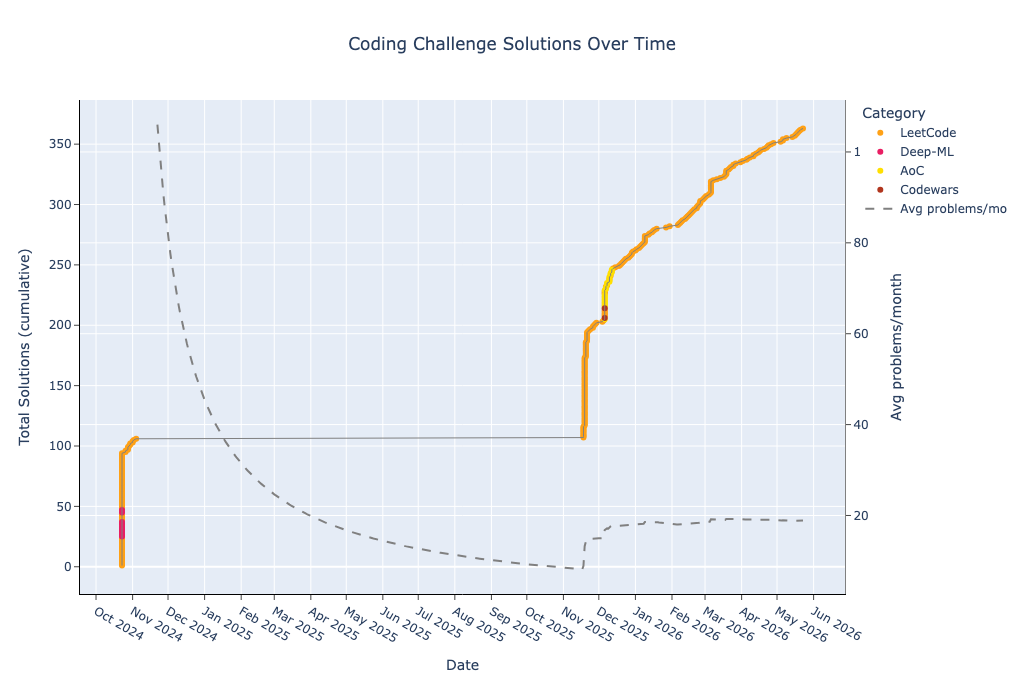
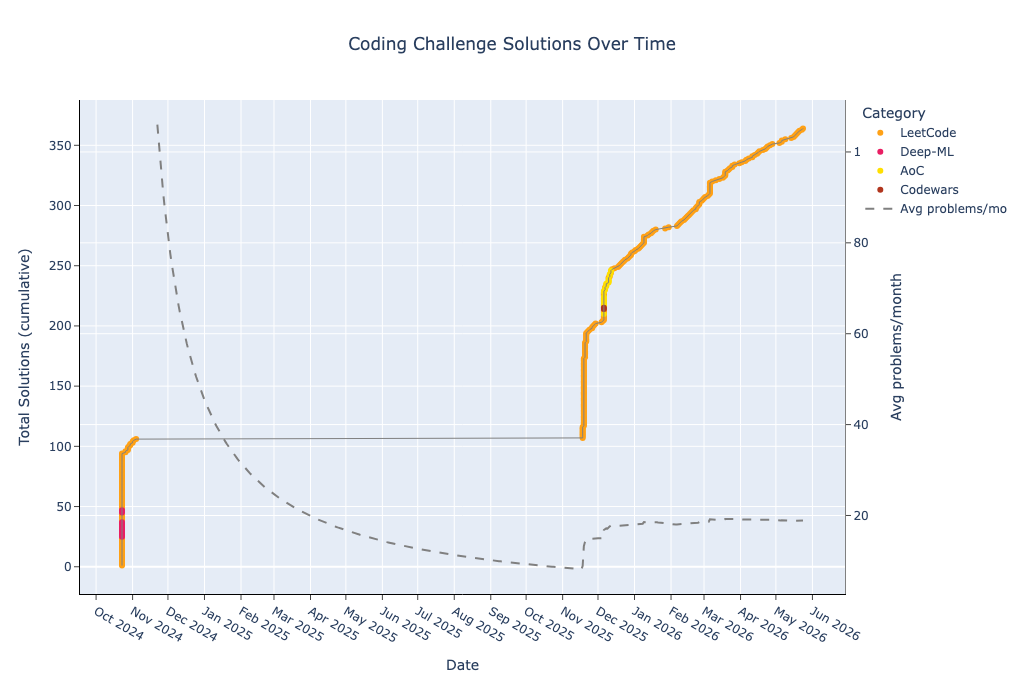
Regenerate README with LeetCode 1340

diff --git a/README.md b/README.md
@@ -37,7 +37,7 @@ This repository contains a collection of coding problems solved on various platf
 | deep-ml-medium | 5 | 69 | 13 | 5 | 0 | 1 | 7 | 0 | 0 | 0 | 8 | 2 | 0 | 0 | 0 | 0 | 0 | 0 |
 | leetcode-easy | 117 | 1924 | 16 | 159 | 6 | 159 | 149 | 42 | 6 | 14 | 194 | 4 | 4 | 14 | 1 | 0 | 11 | 0 |
 | leetcode-medium | 174 | 4556 | 26 | 307 | 5 | 464 | 338 | 102 | 21 | 39 | 380 | 6 | 37 | 55 | 11 | 25 | 23 | 7 |
-| leetcode-hard | 32 | 1002 | 31 | 58 | 4 | 91 | 77 | 21 | 8 | 15 | 74 | 3 | 7 | 12 | 8 | 3 | 9 | 9 |
+| leetcode-hard | 33 | 1022 | 30 | 60 | 4 | 93 | 80 | 21 | 10 | 15 | 76 | 3 | 7 | 12 | 8 | 3 | 9 | 9 |
 
 ## Recent Changes
 
@@ -47,6 +47,7 @@ Recently solved and added problems.
 
 | Date | Type | Challenge | Solution Code | Problem Link |
 | --- | --- | --- | --- | --- |
+| 2026-05-24 | LeetCode Hard | Jump Game V | [python](leetcode/hard/1340.%20Jump%20Game%20V.py) | [leetcode.com](https://leetcode.com/problems/jump-game-v/) |
 | 2026-05-23 | LeetCode Easy | Check if Array Is Sorted and Rotated | [python](leetcode/easy/1752.%20Check%20if%20Array%20Is%20Sorted%20and%20Rotated.py) | [leetcode.com](https://leetcode.com/problems/check-if-array-is-sorted-and-rotated/) |
 | 2026-05-21 | LeetCode Medium | Find the Length of the Longest Common Prefix | [python](leetcode/medium/3043.%20Find%20the%20Length%20of%20the%20Longest%20Common%20Prefix.py) | [leetcode.com](https://leetcode.com/problems/find-the-length-of-the-longest-common-prefix/) |
 | 2026-05-20 | LeetCode Medium | Find the Prefix Common Array of Two Arrays | [python](leetcode/medium/2657.%20Find%20the%20Prefix%20Common%20Array%20of%20Two%20Arrays.py) | [leetcode.com](https://leetcode.com/problems/find-the-prefix-common-array-of-two-arrays/) |
@@ -56,7 +57,6 @@ Recently solved and added problems.
 | 2026-05-16 | LeetCode Hard | Find Minimum in Rotated Sorted Array II | [python](leetcode/hard/154.%20Find%20Minimum%20in%20Rotated%20Sorted%20Array%20II.py) | [leetcode.com](https://leetcode.com/problems/find-minimum-in-rotated-sorted-array-ii/) |
 | 2026-05-14 | LeetCode Easy | Check if Array is Good | [python](leetcode/easy/2784.%20Check%20if%20Array%20is%20Good.py) | [leetcode.com](https://leetcode.com/problems/check-if-array-is-good/) |
 | 2026-05-09 | LeetCode Medium | Cyclically Rotating a Grid | [python](leetcode/medium/1914.%20Cyclically%20Rotating%20a%20Grid.py) | [leetcode.com](https://leetcode.com/problems/cyclically-rotating-a-grid/) |
-| 2026-05-06 | LeetCode Medium | Check if There is a Valid Path in a Grid | [python](leetcode/medium/1391.%20Check%20if%20There%20is%20a%20Valid%20Path%20in%20a%20Grid.py) | [leetcode.com](https://leetcode.com/problems/check-if-there-is-a-valid-path-in-a-grid/) |
 # Advent of Code
 ### 2025
 | Day | Challenge | Time Complexity | Space Complexity | Solution Code | Problem Link |
@@ -259,6 +259,7 @@ Recently solved and added problems.
 | 857 | Minimum Cost to Hire K Workers | O(n log n) | O(n) | [python](leetcode/hard/857.%20Minimum%20Cost%20to%20Hire%20K%20Workers.py) | [leetcode.com](https://leetcode.com/problems/minimum-cost-to-hire-k-workers/) |
 | 960 | Delete Columns to Make Sorted III | O(n * m) | O(m) | [python](leetcode/hard/960.%20Delete%20Columns%20to%20Make%20Sorted%20III.py) | [leetcode.com](https://leetcode.com/problems/delete-columns-to-make-sorted-iii/) |
 | 1289 | Minimum Falling Path Sum II | O(n*m) | O(n) | [python](leetcode/hard/1289.%20Minimum%20Falling%20Path%20Sum%20II.py) | [leetcode.com](https://leetcode.com/problems/minimum-falling-path-sum-ii/) |
+| 1340 | Jump Game V | O(n) | O(n) | [python](leetcode/hard/1340.%20Jump%20Game%20V.py) | [leetcode.com](https://leetcode.com/problems/jump-game-v/) |
 | 1345 | Jump Game IV | O(n) | O(n) | [python](leetcode/hard/1345.%20Jump%20Game%20IV.py) | [leetcode.com](https://leetcode.com/problems/jump-game-iv/) |
 | 1354 | Construct Target Array With Multiple Sums | O(n) | O(1) | [python](leetcode/hard/1354.%20Construct%20Target%20Array%20With%20Multiple%20Sums.py) | [leetcode.com](https://leetcode.com/problems/construct-target-array-with-multiple-sums/) |
 | 1458 | Max Dot Product of Two Subsequences | O(n) | O(1) | [python](leetcode/hard/1458.%20Max%20Dot%20Product%20of%20Two%20Subsequences.py) | [leetcode.com](https://leetcode.com/problems/max-dot-product-of-two-subsequences) |

diff --git a/CHANGES.md b/CHANGES.md
@@ -6,6 +6,7 @@ Recently solved and added problems.
 
 | Date | Type | Challenge | Solution Code | Problem Link |
 | --- | --- | --- | --- | --- |
+| 2026-05-24 | LeetCode Hard | Jump Game V | [python](leetcode/hard/1340.%20Jump%20Game%20V.py) | [leetcode.com](https://leetcode.com/problems/jump-game-v/) |
 | 2026-05-23 | LeetCode Easy | Check if Array Is Sorted and Rotated | [python](leetcode/easy/1752.%20Check%20if%20Array%20Is%20Sorted%20and%20Rotated.py) | [leetcode.com](https://leetcode.com/problems/check-if-array-is-sorted-and-rotated/) |
 | 2026-05-21 | LeetCode Medium | Find the Length of the Longest Common Prefix | [python](leetcode/medium/3043.%20Find%20the%20Length%20of%20the%20Longest%20Common%20Prefix.py) | [leetcode.com](https://leetcode.com/problems/find-the-length-of-the-longest-common-prefix/) |
 | 2026-05-20 | LeetCode Medium | Find the Prefix Common Array of Two Arrays | [python](leetcode/medium/2657.%20Find%20the%20Prefix%20Common%20Array%20of%20Two%20Arrays.py) | [leetcode.com](https://leetcode.com/problems/find-the-prefix-common-array-of-two-arrays/) |
@@ -15,4 +16,3 @@ Recently solved and added problems.
 | 2026-05-16 | LeetCode Hard | Find Minimum in Rotated Sorted Array II | [python](leetcode/hard/154.%20Find%20Minimum%20in%20Rotated%20Sorted%20Array%20II.py) | [leetcode.com](https://leetcode.com/problems/find-minimum-in-rotated-sorted-array-ii/) |
 | 2026-05-14 | LeetCode Easy | Check if Array is Good | [python](leetcode/easy/2784.%20Check%20if%20Array%20is%20Good.py) | [leetcode.com](https://leetcode.com/problems/check-if-array-is-good/) |
 | 2026-05-09 | LeetCode Medium | Cyclically Rotating a Grid | [python](leetcode/medium/1914.%20Cyclically%20Rotating%20a%20Grid.py) | [leetcode.com](https://leetcode.com/problems/cyclically-rotating-a-grid/) |
-| 2026-05-06 | LeetCode Medium | Check if There is a Valid Path in a Grid | [python](leetcode/medium/1391.%20Check%20if%20There%20is%20a%20Valid%20Path%20in%20a%20Grid.py) | [leetcode.com](https://leetcode.com/problems/check-if-there-is-a-valid-path-in-a-grid/) |